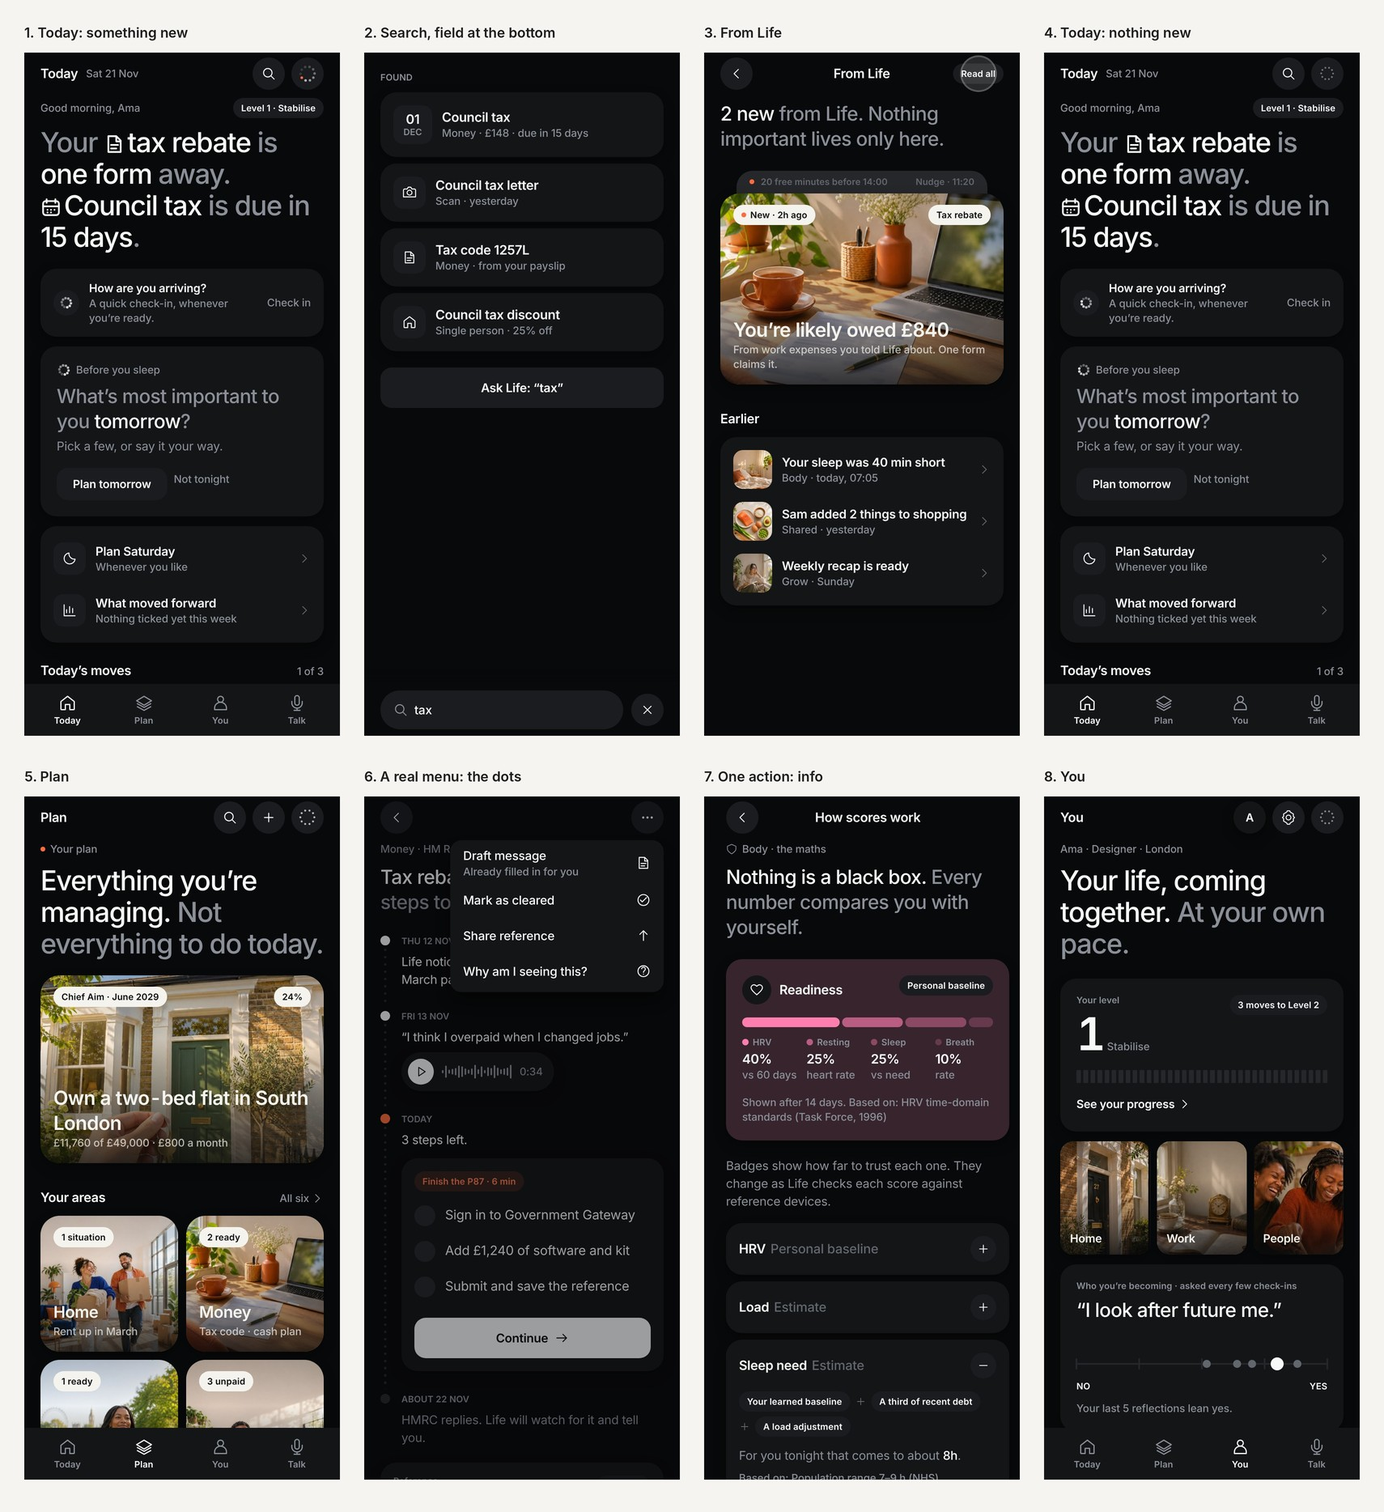
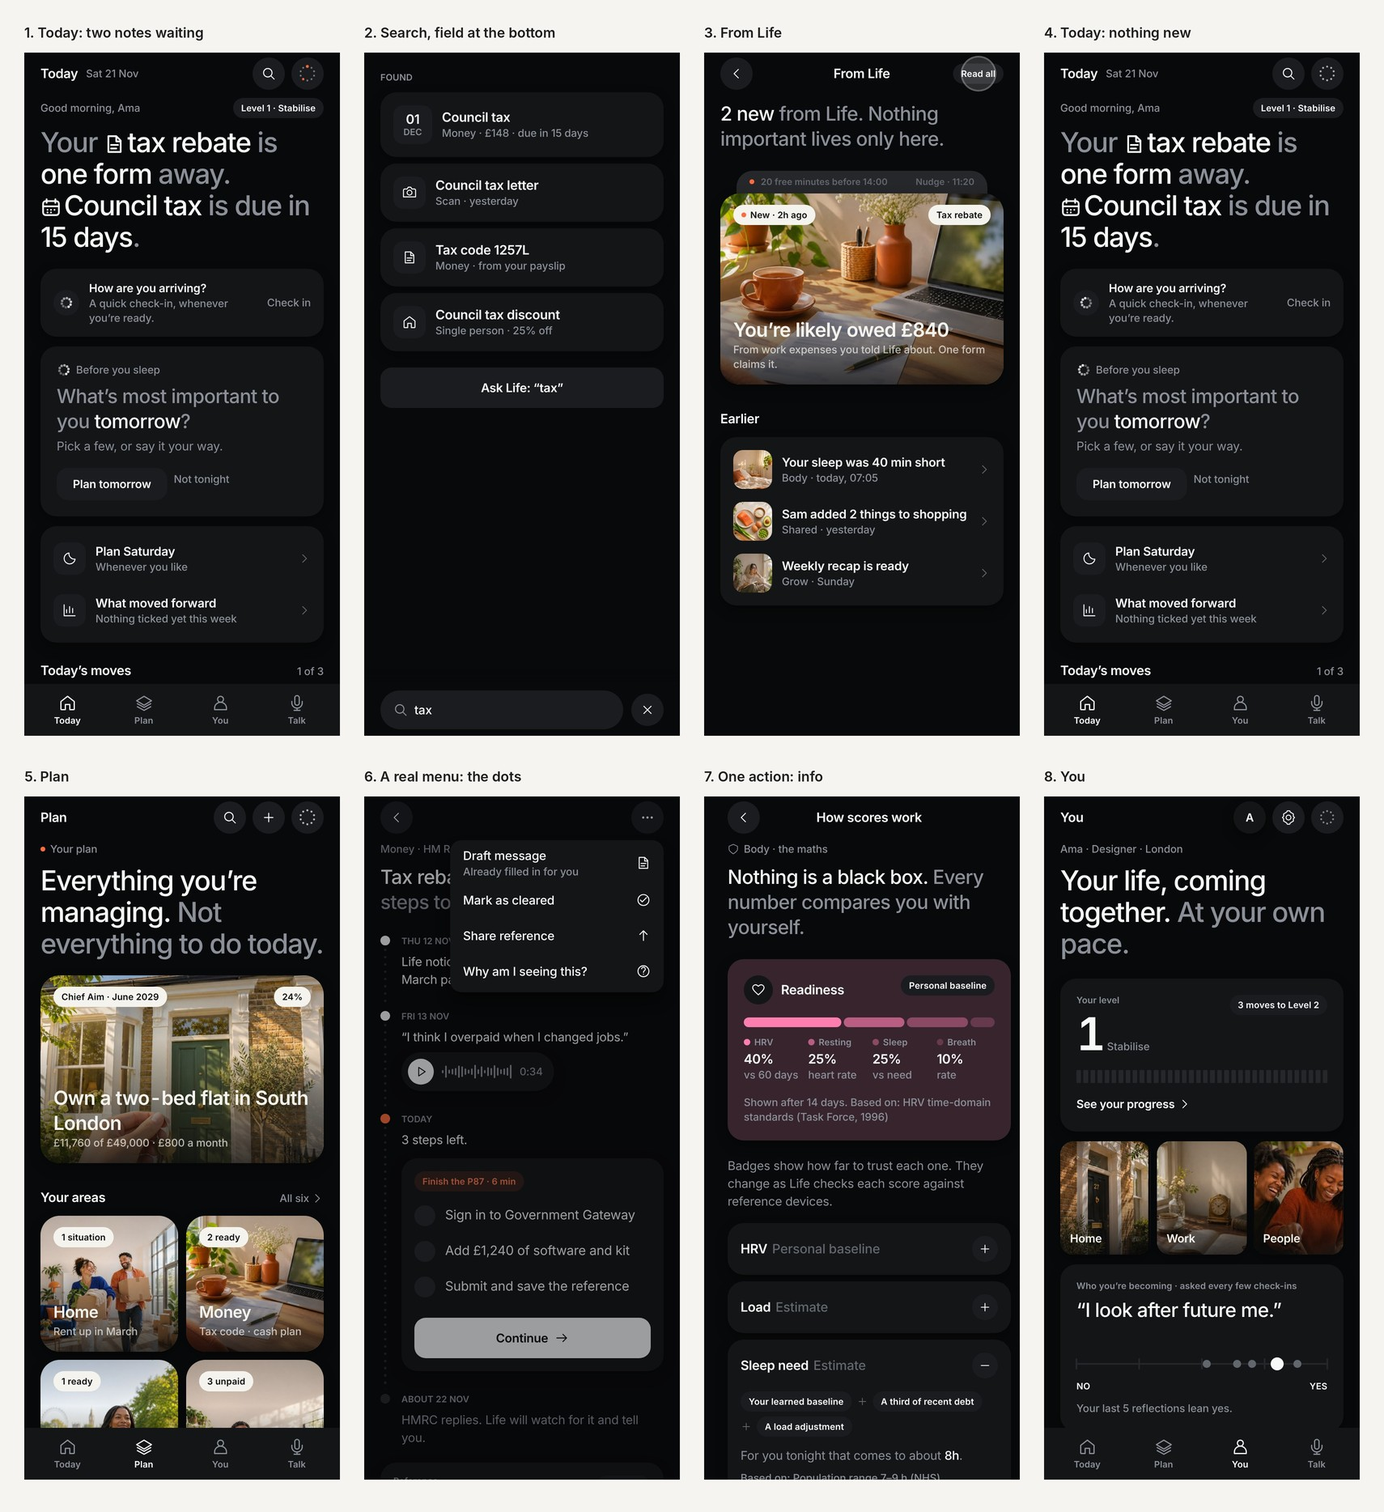
The top-bar orb holds still; areas with something new light up red and pulse in turn
Edem (21 Nov): instead of spinning, the ring should stay resting while
the area a note speaks to lights up, and with more than one area they
line up and pulse in order. The news state now holds the ring still
with the first dot at twelve o'clock, so a dot's place is its area. Lit
dots stay ember red and each pulses for 0.8 s in turn, newest first,
then a 1 s pause. Rest shares the same orientation and breathes. LifeOrb
takes marks (a list) in place of a single mark, and the top bar takes
areas. The sample lights Money (tax rebate) and Admin (the P87 nudge).
The orb's page and the design book say the same.

Claude-Session: https://claude.ai/code/session_01TySN1b8GyEYiSbTN7ivact

diff --git a/apps/mobile/src/design/components/Orb.tsx b/apps/mobile/src/design/components/Orb.tsx
@@ -7,16 +7,20 @@ import { useCalmMotion, useTokens } from '../theme';
 /** Port of board v17 mountOrb: the same thirty dots travel between every state.
  * Original ring, Fibonacci sphere, clockwork, searching web, voice and spring gather.
  * Geometry and animation run on Reanimated's UI thread; no JS animation timer. */
-/** `news` and `rest` belong to the orb in the top bar (Edem, 21 Nov 2026): it spins round when Life has
- * something new for you, and when there's nothing it stops travelling and breathes slowly. */
+/** `news` and `rest` belong to the orb in the top bar (Edem, 21 Nov 2026). Both hold the ring still with the first
+ * dot at the top, so each dot keeps its area's place. `rest` breathes slowly. `news` stays still while the dots of the
+ * areas with something new light up red and pulse one after another. */
 export type OrbState = 'ring' | 'thinking' | 'working' | 'searching' | 'listening' | 'done' | 'voice' | 'news' | 'rest';
 type Point = { x: number; y: number; z: number; alpha: number; scale: number };
 const STATES = ['ring', 'thinking', 'working', 'searching', 'listening', 'done', 'news', 'rest'] as const;
-/** Laps a second: everyday ring one lap in 12 s; something new one lap in 1.6 s; resting, still. */
-const LAPS = [1 / 12, 1 / 12, 1 / 12, 1 / 12, 1 / 12, 1 / 12, 1 / 1.6, 0];
+/** Laps a second: the everyday ring one lap in 12 s; the top bar's two states hold still. */
+const LAPS = [1 / 12, 1 / 12, 1 / 12, 1 / 12, 1 / 12, 1 / 12, 0, 0];
+/** Something new: each lit dot pulses for PULSE_S in turn, then the ring waits PAUSE_S before the next round. */
+const PULSE_S = .8, PAUSE_S = 1;
 const BREATH_S = 5;
-/** Ten dots, ten areas of a life (Edem, 21 Nov 2026). Each ring dot belongs to one area, in this order; when Life has
- * something new, that area's dot turns red and leads the spinning ring. */
+const NONE: number[] = [];
+/** Ten dots, ten areas of a life (Edem, 21 Nov 2026). Each ring dot belongs to one area, clockwise from the top in this
+ * order; when Life has something new, that area's dot lights up red. */
 export const ORB_AREAS = ['money', 'home', 'work', 'body', 'food', 'people', 'admin', 'learning', 'goals', 'you'] as const;
 export type OrbArea = (typeof ORB_AREAS)[number];
 export const ORB_AREA_NAMES: Record<OrbArea, string> = { money: 'Money', home: 'Home', work: 'Work', body: 'Body', food: 'Food', people: 'People', admin: 'Admin', learning: 'Learning', goals: 'Goals', you: 'You' };
@@ -28,19 +32,23 @@ const SPHERE = sphere(30), SEARCH = sphere(10);
 const NEIGHBOURS = SEARCH.map((a, i) => SEARCH.map((b, j) => ({ j, d: a.reduce((s, v, k) => s + v * b[k], 0) })).filter(v => v.j !== i).sort((a, b) => b.d - a.d).slice(0, 3).map(v => v.j));
 const PAIRS = Array.from({ length: 10 }, (_, a) => Array.from({ length: 9 - a }, (_, i) => [a, a + i + 1])).flat();
 const ALine = Animated.createAnimatedComponent(Line);
-function target(state: number, k: number, r: number, t: number, spin: number, voice: number, head: number, trail: number[], mark = -1): Point {
+function target(state: number, k: number, r: number, t: number, spin: number, voice: number, head: number, trail: number[], marks: number[] = []): Point {
   'worklet';
   const i = k % 10, a = i / 10 * Math.PI * 2 + spin, tail = .3 + .7 * i / 10;
   const ring = { x: Math.cos(a) * r, y: Math.sin(a) * r, z: .5, alpha: k < 10 ? tail : 0, scale: 1 };
   if (state === 0 || state === 5) return ring;
-  if (state === 6) {
-    // Something new: a comet. The marked (red) dot is the head at full strength; the rest trail behind it.
-    const lead = mark >= 0 ? mark : 9, rel = (i - lead + 19) % 10;
-    return { ...ring, alpha: k < 10 ? (i === lead ? 1 : .12 + .7 * Math.pow(rel / 9, 1.6)) : 0, scale: k < 10 && i === lead && mark >= 0 ? 1.3 : 1 };
-  }
-  if (state === 7) {
-    const breath = .5 - .5 * Math.cos(t / BREATH_S * Math.PI * 2), rr = r * (.84 + .16 * breath);
-    return { x: Math.cos(a) * rr, y: Math.sin(a) * rr, z: .5, alpha: k < 10 ? .4 + .32 * breath : 0, scale: .9 + .1 * breath };
+  if (state === 6 || state === 7) {
+    // The top bar: still, first dot at twelve o'clock, so a dot's place is its area.
+    const b = i / 10 * Math.PI * 2 - Math.PI / 2;
+    if (state === 7) {
+      const breath = .5 - .5 * Math.cos(t / BREATH_S * Math.PI * 2), rr = r * (.84 + .16 * breath);
+      return { x: Math.cos(b) * rr, y: Math.sin(b) * rr, z: .5, alpha: k < 10 ? .4 + .32 * breath : 0, scale: .9 + .1 * breath };
+    }
+    const at = k < 10 ? marks.indexOf(i) : -1;
+    if (at < 0) return { x: Math.cos(b) * r, y: Math.sin(b) * r, z: .5, alpha: k < 10 ? .42 : 0, scale: .92 };
+    const cycle = marks.length * PULSE_S + PAUSE_S, inCycle = t % cycle, turn = Math.floor(inCycle / PULSE_S);
+    const env = turn === at ? Math.pow(Math.sin((inCycle - at * PULSE_S) / PULSE_S * Math.PI), 2) : 0;
+    return { x: Math.cos(b) * r, y: Math.sin(b) * r, z: 1, alpha: .9 + .1 * env, scale: 1.18 + .6 * env };
   }
   if (state === 2) {
     if (k < 10) { const b = a + t / 12 * Math.PI * 2 * 1.2; return { ...ring, x: Math.cos(b) * r, y: Math.sin(b) * r }; }
@@ -62,29 +70,30 @@ function target(state: number, k: number, r: number, t: number, spin: number, vo
     alpha: state === 1 ? (.1 + .9 * Math.pow(depth, 1.5)) * (.82 + .18 * (.5 + .5 * Math.sin(t * 2.2 + k * 1.37))) : hop * (.45 + .55 * depth),
     scale: state === 1 ? .5 + .62 * depth : (.78 + .34 * depth) * (k === head ? 1.15 : 1) };
 }
-export function LifeOrb({ size = 56, state = 'ring', color, rings: _rings, mark, markColor }: {
+export function LifeOrb({ size = 56, state = 'ring', color, rings: _rings, marks, markColor }: {
   size?: number; state?: OrbState; color?: string; rings?: 1 | 2;
-  /** One ring dot (0 to 9, see ORB_AREAS) drawn in `markColor`: the area something new is about. */
-  mark?: number; markColor?: string;
+  /** Ring dots (0 to 9, see ORB_AREAS) drawn in `markColor`: the areas with something new, newest first. In `news` they pulse in this order. */
+  marks?: number[]; markColor?: string;
 }) {
   const tokens = useTokens(), calm = useCalmMotion(), ink = color ?? tokens.ink;
   const dot = Math.max(2.6, size / 12), r = size / 2 - Math.max(2, size / 14) - dot / 2;
   const initialMode = STATES.indexOf(state === 'voice' ? 'listening' : state);
-  const lead = mark ?? -1;
-  const initialPoints = Array.from({ length: 30 }, (_, k) => target(initialMode, k, r, 0, 0, .5, 0, [], lead));
+  const lit = marks ?? NONE, litKey = lit.join(',');
+  const initialPoints = Array.from({ length: 30 }, (_, k) => target(initialMode, k, r, 0, 0, .5, 0, [], lit));
   const mode = useSharedValue(initialMode);
   const points = useSharedValue<Point[]>(initialPoints);
   const frozen = useSharedValue(initialPoints), elapsed = useSharedValue(2000), time = useSharedValue(0), spin = useSharedValue(0);
   const head = useSharedValue(0), trail = useSharedValue<number[]>([]), edges = useSharedValue<Record<string, number>>({});
   const hopAt = useSharedValue(0), gather = useSharedValue(0), velocity = useSharedValue(0), voice = useSharedValue(0);
-  const laps = useSharedValue(LAPS[initialMode] ?? 1 / 12), markAt = useSharedValue(lead);
+  const laps = useSharedValue(LAPS[initialMode] ?? 1 / 12), markAt = useSharedValue<number[]>(lit);
   useEffect(() => {
     frozen.value = points.value;
     mode.value = STATES.indexOf(state === 'voice' ? 'listening' : state);
     elapsed.value = calm ? 2000 : 0;
-    markAt.value = lead;
-    if (calm) points.value = Array.from({ length: 30 }, (_, k) => target(mode.value, k, r, 0, 0, .5, 0, [], lead));
-  }, [state, calm, r, mode, elapsed, frozen, points, lead, markAt]);
+    markAt.value = lit;
+    if (calm) points.value = Array.from({ length: 30 }, (_, k) => target(mode.value, k, r, 0, 0, .5, 0, [], lit));
+    // eslint-disable-next-line react-hooks/exhaustive-deps -- litKey stands for lit
+  }, [state, calm, r, mode, elapsed, frozen, points, litKey, markAt]);
   const frame = useFrameCallback(f => {
     const dt = Math.min(50, f.timeSincePreviousFrame ?? 16), factor = dt / 16;
     time.value += dt / 1000; elapsed.value += dt;
@@ -120,7 +129,7 @@ export function LifeOrb({ size = 56, state = 'ring', color, rings: _rings, mark,
     <Svg width={size} height={size} style={{ position: 'absolute' }} pointerEvents="none">
       {PAIRS.map(([a, b]) => <OrbEdge key={`${a}-${b}`} a={a} b={b} points={points} edges={edges} time={time} size={size} color={ink} dot={dot} />)}
     </Svg>
-    {Array.from({ length: 30 }, (_, k) => <OrbDot key={k} k={k} points={points} size={size} dot={dot} color={k === lead && markColor ? markColor : ink} />)}
+    {Array.from({ length: 30 }, (_, k) => <OrbDot key={k} k={k} points={points} size={size} dot={dot} color={k < 10 && lit.includes(k) && markColor ? markColor : ink} />)}
   </View>;
 }
 function OrbDot({ k, points, size, dot, color }: { k: number; points: SharedValue<Point[]>; size: number; dot: number; color: string }) {

diff --git a/apps/mobile/src/screens/v26/outside.tsx b/apps/mobile/src/screens/v26/outside.tsx
@@ -375,7 +375,7 @@ export function SiriV26() {
 const ORB_STATES: [OrbState, string, string, string][] = [
   ['ring', 'Ring', 'The everyday mark: tab bar, headers, small sizes.', 'Default'],
   ['rest', 'Resting', 'Top bar, nothing new. It stops and breathes slowly.', 'Top bar'],
-  ['news', 'Something new', 'Top bar, a note is waiting. It spins; the red dot is its area.', 'Top bar'],
+  ['news', 'Something new', 'Top bar, notes waiting. Their areas light red and pulse in turn.', 'Top bar'],
   ['thinking', 'Thinking', 'Only while Life is working something out.', 'Over 1s'],
   ['working', 'Working', 'While Life builds or files something in front of you.', ''],
   ['searching', 'Searching', 'While Life checks or looks something up.', ''],
@@ -394,7 +394,7 @@ export function OrbV26() {
           <View key={i} style={{ flexDirection: 'row', gap: space.tile }}>
             {r.map(([st, name, when, tag]) => (
               <View key={st} accessible accessibilityLabel={`${name}. ${when}`} style={[styles.orbTile, { backgroundColor: t.surface, ...cardShadow(t.scheme) }]}>
-                <Between style={{ alignItems: 'flex-start' }}><LifeOrb size={60} state={st} {...(st === 'news' ? { mark: 0, markColor: t.ember } : {})} />{tag ? <Chip label={tag} tone="q" /> : null}</Between>
+                <Between style={{ alignItems: 'flex-start' }}><LifeOrb size={60} state={st} {...(st === 'news' ? { marks: [0, 6], markColor: t.ember } : {})} />{tag ? <Chip label={tag} tone="q" /> : null}</Between>
                 <Text variant="title" style={{ marginTop: space.sm }}>{name}</Text>
                 <Text variant="callout" tone="ink2" style={{ marginTop: 2 }}>{when}</Text>
               </View>
@@ -403,7 +403,7 @@ export function OrbV26() {
         ))}
       </View>
       <OrbAreas />
-      <Callout style={{ marginTop: space.sm }}>The everyday ring takes 12 seconds a lap; with something new, 1.6 seconds. With Reduce Motion each state is shown still; the red dot still says something new.</Callout>
+      <Callout style={{ marginTop: space.sm }}>The everyday ring takes 12 seconds a lap. In the top bar the ring holds still, first dot at the top. With Reduce Motion nothing pulses; the red dots simply stay lit.</Callout>
     </Page>
   );
 }
@@ -415,10 +415,10 @@ function OrbAreas() {
   return (
     <View style={[styles.orbAreas, { backgroundColor: t.surface, ...cardShadow(t.scheme) }]}>
       <Text variant="title">Ten dots, ten areas</Text>
-      <Text variant="callout" tone="ink2" style={{ marginTop: 2 }}>Each dot belongs to one part of your life. When a note arrives, its dot turns red and leads the ring round. Here, a Money note.</Text>
+      <Text variant="callout" tone="ink2" style={{ marginTop: 2 }}>Each dot belongs to one part of your life. When notes arrive, their dots light up red and pulse one after another. Here, Money and Admin.</Text>
       <View accessible accessibilityLabel={`The ten areas: ${ORB_AREAS.map(a => ORB_AREA_NAMES[a]).join(', ')}.`} style={{ width: box, height: box, alignSelf: 'center', marginTop: space.sm }}>
         {ORB_AREAS.map((a, i) => {
-          const angle = -Math.PI / 2 + (i / ORB_AREAS.length) * Math.PI * 2, red = a === 'money';
+          const angle = -Math.PI / 2 + (i / ORB_AREAS.length) * Math.PI * 2, red = a === 'money' || a === 'admin';
           const x = c + Math.cos(angle) * ring, y = c + Math.sin(angle) * ring, lx = c + Math.cos(angle) * label, ly = c + Math.sin(angle) * label;
           return (
             <View key={a} pointerEvents="none" style={StyleSheet.absoluteFill}>

diff --git a/apps/mobile/src/design/components/TopBar.tsx b/apps/mobile/src/design/components/TopBar.tsx
@@ -21,7 +21,7 @@ export type TopBarAction =
 /** `look: 'v26'` draws the board's bars (52pt, round 40pt buttons, the orb at the right of root bars). Leave it unset for the V23 bars. */
 type BarLook = { look?: 'v26' };
 export type TopBarProps = BarLook & (
-  | { kind: 'root'; eyebrow?: string; title: string; /** V26: the quiet words after the title ("Mon 16 Nov"). */ sub?: string; actions?: TopBarAction[]; avatar?: ReactNode; /** V26: the orb at the right end, opening what Life has to tell you. */ orb?: { onPress: () => void; unread?: boolean; /** The area the newest note is about: its dot turns red. */ area?: OrbArea }; onImage?: boolean }
+  | { kind: 'root'; eyebrow?: string; title: string; /** V26: the quiet words after the title ("Mon 16 Nov"). */ sub?: string; actions?: TopBarAction[]; avatar?: ReactNode; /** V26: the orb at the right end, opening what Life has to tell you. */ orb?: { onPress: () => void; unread?: boolean; /** The areas with something new, newest first: their dots light up red. */ areas?: OrbArea[] }; onImage?: boolean }
   | { kind: 'push'; title?: string; /** V26: something other than words in the middle (the orb and "life" on Chat). */ titleNode?: ReactNode; action?: TopBarAction; onBack: () => void; /** V26: a close cross in place of the back arrow. */ closeIcon?: boolean; onImage?: boolean }
   | { kind: 'sheet'; title: string; action?: TopBarAction; onClose: () => void; onImage?: boolean }
   | { kind: 'flow'; center?: ReactNode; step?: string; action?: TopBarAction; onClose: () => void; /** V26 text bar: the words on the left ("Back"). */ closeLabel?: string; closeIcon?: GlyphName; onImage?: boolean });
@@ -129,16 +129,16 @@ function TopBarV26(props: TopBarProps) {
 }
 
 /** The orb at the right end of Today, Plan and You (Edem, 20 and 21 Nov 2026): Life's own place in the bar, in the
- * same disc as the buttons beside it. Tapping it opens "From Life". When something new is waiting the ring spins and
- * the dot for that note's area turns red, leading the ring; when there's nothing it rests and breathes. With Reduce
- * Motion the ring stays still and the red dot alone carries the news. */
-function OrbButton({ onPress, unread, area, onImage }: { onPress: () => void; unread?: boolean; area?: OrbArea; onImage?: boolean }) {
+ * same disc as the buttons beside it. Tapping it opens "From Life". The ring holds still; when something new is waiting,
+ * the dots for those areas light up red and pulse one after another, and when there's nothing it breathes slowly.
+ * With Reduce Motion the red dots simply stay lit. */
+function OrbButton({ onPress, unread, areas, onImage }: { onPress: () => void; unread?: boolean; areas?: OrbArea[]; onImage?: boolean }) {
   const t = useTokens();
-  const mark = unread ? Math.max(0, area ? ORB_AREAS.indexOf(area) : ORB_AREAS.length - 1) : undefined;
+  const marks = unread ? (areas?.length ? areas.map(a => ORB_AREAS.indexOf(a)).filter(i => i >= 0) : [ORB_AREAS.length - 1]) : undefined;
   return (
     <Press haptic="select" onPress={onPress} accessibilityLabel={unread ? 'From Life, something new' : 'From Life'} hitSlop={2}
       style={[styles.v26Orb, { backgroundColor: onImage ? photo.onPhoto : t.surface2 }]}>
-      <LifeOrb size={24} state={unread ? 'news' : 'rest'} color={onImage ? photo.ink : t.ink} mark={mark} markColor={t.ember} />
+      <LifeOrb size={24} state={unread ? 'news' : 'rest'} color={onImage ? photo.ink : t.ink} marks={marks} markColor={t.ember} />
     </Press>
   );
 }

diff --git a/apps/mobile/src/screens/v26/kit.tsx b/apps/mobile/src/screens/v26/kit.tsx
@@ -15,7 +15,7 @@ import { SafeAreaView, useSafeAreaInsets } from 'react-native-safe-area-context'
 import {
   Appear, Button, Card, Footer, Icon, LifeOrb, PhotoFill, Press, RichText, SpineTimeline, StatusPill, Text, Thumb, TopBar, TwoTone, V26Row,
   cardShadow, componentSize, motion, photo, photoScrims, radius, space, useCalmMotion, useTokens,
-  type Focal, type GlyphName, type SpineItem, type StatusKind, type Tone, type TopBarAction, type TwoToneSegment, type TypeStyle, type V26RowProps,
+  type Focal, type GlyphName, type OrbArea, type SpineItem, type StatusKind, type Tone, type TopBarAction, type TwoToneSegment, type TypeStyle, type V26RowProps,
 } from '@/design';
 import { screens, type ScreenKey } from '@/navigation/screens';
 import { useNavigation } from '@/navigation/useNavigation';
@@ -240,8 +240,9 @@ export function PhotoRound({ icon, label, onPress }: { icon: GlyphName; label: s
 /** Today, Plan and You: the page name on the left, its buttons and then the orb on the right. */
 function RootBar({ bar, onImage }: { bar: Extract<Bar, { kind: 'root' }>; onImage: boolean }) {
   const nav = useNavigation(), { data } = useSeed();
-  // The newest note in From Life is the tax rebate, a Money note, until the day engine hands over real notes with their area.
-  const orb = bar.orb === false ? undefined : { onPress: () => nav.go('inbox'), unread: !data.flags['inbox-read'], area: 'money' as const };
+  // From Life's two new notes in the sample: the tax rebate (Money) and the nudge to finish the P87 (Admin). The day
+  // engine hands over real notes with their areas later.
+  const orb = bar.orb === false ? undefined : { onPress: () => nav.go('inbox'), unread: !data.flags['inbox-read'], areas: ['money', 'admin'] as OrbArea[] };
   return <TopBar look="v26" kind="root" title={bar.title} sub={bar.sub} actions={bar.actions} orb={orb} onImage={onImage} />;
 }
 

diff --git a/DESIGN.md b/DESIGN.md
@@ -117,7 +117,7 @@ Fonts (load with `expo-font` / `@expo-google-fonts/*`; block the splash screen u
 
 Rules:
 - **Minimum 13px**, everywhere. The only exceptions are the weekday initials in `WeekStrip` and the dock labels (11px, 600).
-- **Sentence case.** No ALL-CAPS section labels. The one exception is the logo, `LIFE` in spaced capitals (the `Wordmark` component), used only where the name stands alone: welcome, sign-in, Plus and About. In sentences the name is a name: "Life found one gap". The orb sits at the right end of the top bar on Today, Plan and You only, after their buttons: tapping it opens From Life. It sits in the same 40pt disc as the buttons beside it. The ten ring dots belong to ten areas, in this order: Money, Home, Work, Body, Food, People, Admin, Learning, Goals, You (`ORB_AREAS`). When something new is waiting the ring spins round (one lap in 1.6 s) and the dot for that note's area turns ember red and leads it; when there's nothing it stops and breathes slowly (one breath every 5 s). With Reduce Motion it stays still and the red dot alone shows something new. Deeper pages never carry it; elsewhere it shows only where Life is speaking or listening (Edem, 20 Nov 2026).
+- **Sentence case.** No ALL-CAPS section labels. The one exception is the logo, `LIFE` in spaced capitals (the `Wordmark` component), used only where the name stands alone: welcome, sign-in, Plus and About. In sentences the name is a name: "Life found one gap". The orb sits at the right end of the top bar on Today, Plan and You only, after their buttons: tapping it opens From Life. It sits in the same 40pt disc as the buttons beside it. The ten ring dots belong to ten areas, in this order: Money, Home, Work, Body, Food, People, Admin, Learning, Goals, You (`ORB_AREAS`). In the top bar the ring holds still, first dot at twelve o'clock, so a dot's place is its area. When something new is waiting, the dots for those areas light up ember red and pulse one after another (0.8 s each, then a 1 s pause); when there's nothing it breathes slowly (one breath every 5 s). With Reduce Motion nothing pulses and the red dots simply stay lit. Deeper pages never carry it; elsewhere it shows only where Life is speaking or listening (Edem, 20 Nov 2026).
 - Serif is for **numbers and screen titles only**. Never serif for body or buttons.
 - Money: whole part in `ink`, decimals in `ink-quiet` (`£12,847` + `.50`). Units/denominators are sans `unit` style, top-aligned.
 - Dynamic Type: support scaling up to 1.3× without clipping (use `maxFontSizeMultiplier={1.3}` on display styles).
